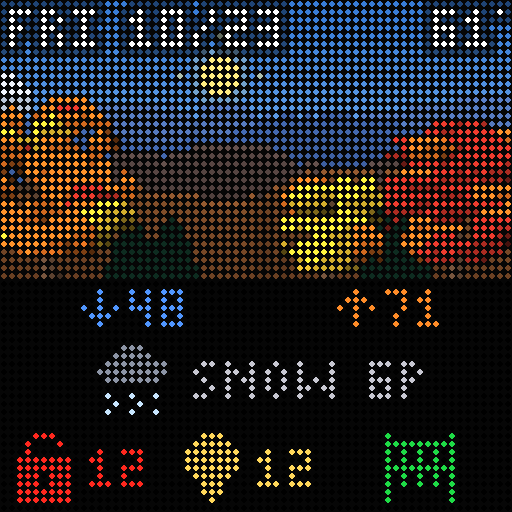
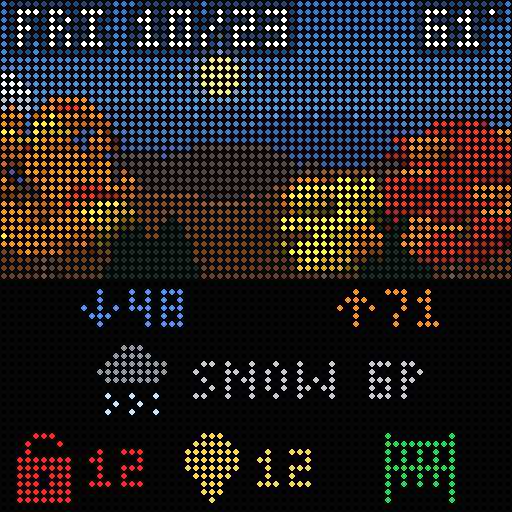
Pull the date and temperature in one pixel from the panel edge

diff --git a/src/matrix_display/scene/scene.py b/src/matrix_display/scene/scene.py
@@ -12,6 +12,9 @@ _NEUTRAL_EQ = -6
 _PRECIP_SKY = (Condition.OVERCAST, Condition.FOG, Condition.RAIN, Condition.SNOW, Condition.THUNDER)
 
 
+EDGE_MARGIN = 1     # pixels between the date/temperature text and the panel edge
+
+
 def render_state(state: AppState, t: float) -> Image.Image:
     """One 64x28 frame. A pure function of (state, t)."""
     weather = state.weather
@@ -77,14 +80,14 @@ def _overlay(img: Image.Image, glyph: Image.Image, outline: Image.Image, x: int)
 
 def _paste_text(img: Image.Image, text: str) -> None:
     glyph, outline = digits.text_masks(text)
-    _overlay(img, glyph, outline, W - glyph.width)
+    _overlay(img, glyph, outline, W - glyph.width - EDGE_MARGIN)
 
 
 def _paste_date(img: Image.Image, state: AppState) -> None:
     """Weekday and month/day at the top left, mirroring the temperature's margin."""
     now = state.now
     glyph, outline = digits.date_masks(f"{now:%a} {now.month}/{now.day}".upper())
-    _overlay(img, glyph, outline, 0)
+    _overlay(img, glyph, outline, EDGE_MARGIN)
 
 
 class SceneRenderer:

diff --git a/tests/test_scene.py b/tests/test_scene.py
@@ -141,8 +141,8 @@ def test_date_overlay_is_top_left_and_readable_day_and_night():
     for name in ("clear_day", "clear_night"):
         img = render_state(sample_state(name), 0.0)
         box = img.crop((0, 0, 36, 8)).point(lambda v: 255 if v > 240 else 0).convert("L").getbbox()
-        assert box is not None and box[0] >= 1 and box[1] >= 1, name     # white text, 1 px margin
-        corner = img.crop((0, 0, 1, 1)).getpixel((0, 0))
+        assert box is not None and box[0] >= 2 and box[1] >= 1, name     # white text, clear of the edge
+        corner = img.crop((1, 1, 2, 2)).getpixel((0, 0))
         assert max(corner) < 200, name                                   # outline darkens the sky
 
 
